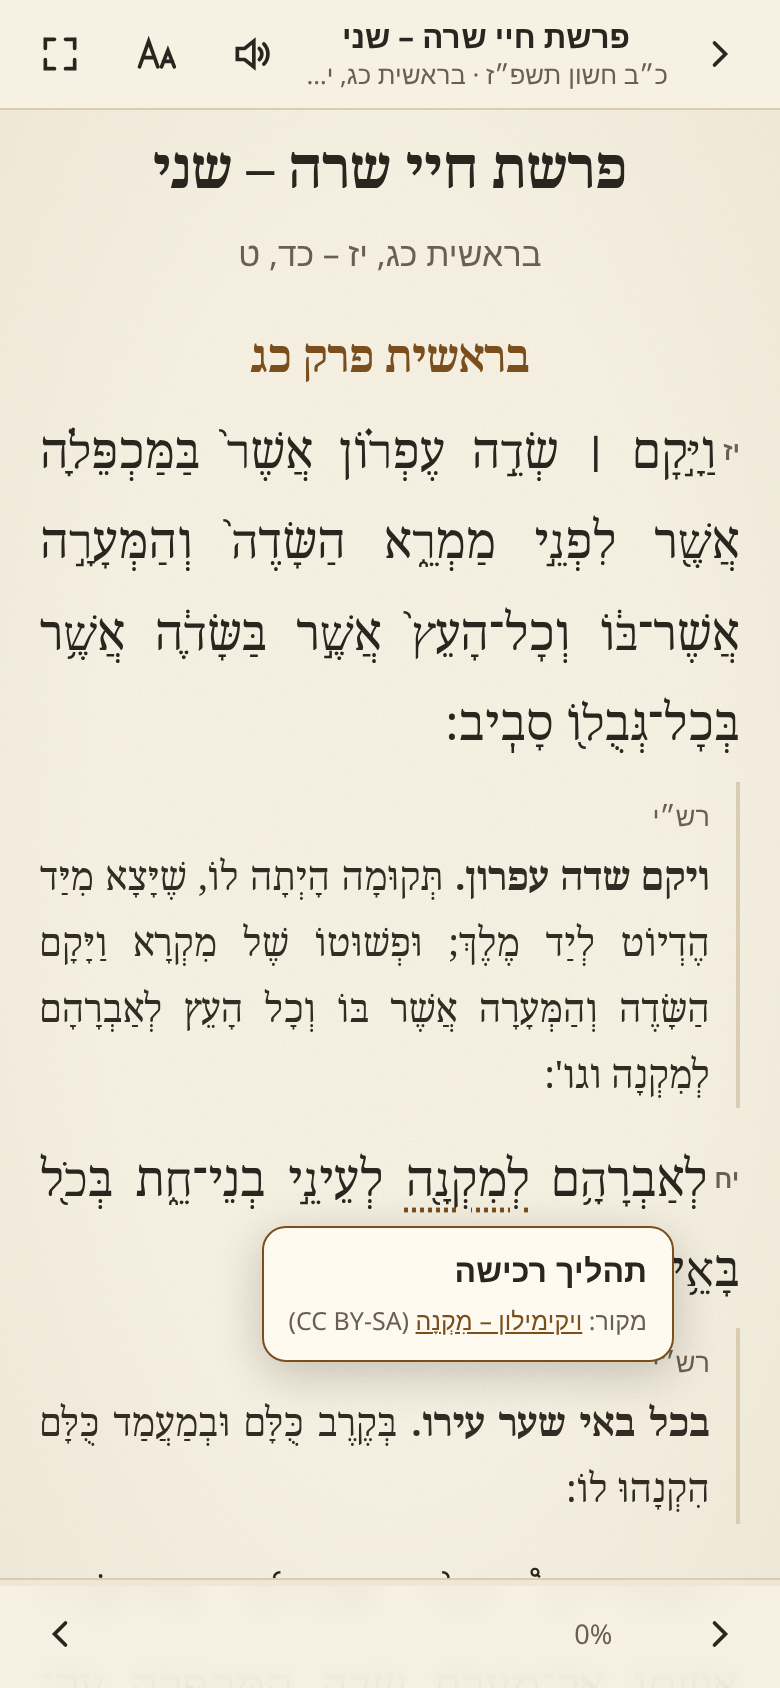
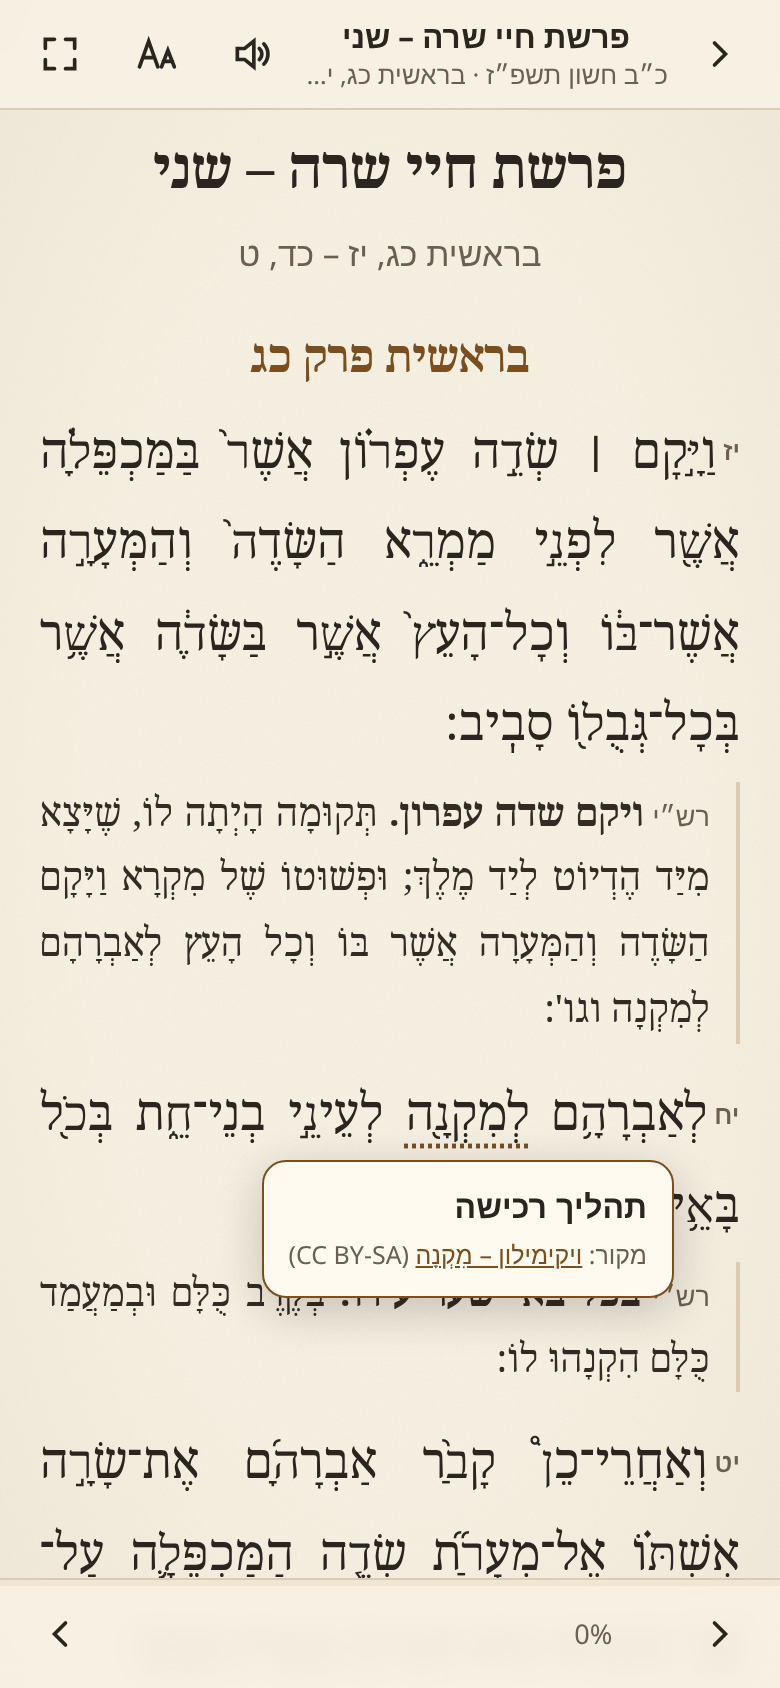
Critique round 1: compact date bar on mobile, Rashi label inline (better page fill)

diff --git a/site/css/app.css b/site/css/app.css
@@ -41,6 +41,8 @@ button, select, input { font: inherit; color: inherit; }
 .hero .hd { font-family: var(--text-font); font-size: 1.9rem; font-weight: 700; margin: 0; }
 .hero .sub { color: var(--muted); margin: .25rem 0 0; }
 .datebar { display: flex; align-items: center; justify-content: center; gap: .5rem; margin: .75rem 0 1rem; flex-wrap: wrap; }
+.datebar input[type="date"] { flex: 0 1 11rem; min-width: 0; }
+@media (max-width: 480px) { .datebar > .btn:not(.today) span { display: none; } .datebar > .btn:not(.today) { padding-inline: .7rem; } .datebar .today { flex-basis: 100%; justify-content: center; } }
 .btn { display: inline-flex; align-items: center; justify-content: center; gap: .4rem; min-height: 44px; min-width: 44px; padding: .4rem .9rem; border-radius: 12px; border: 1px solid var(--rule); background: var(--card); cursor: pointer; text-decoration: none; color: var(--ink); box-shadow: var(--shadow); }
 .btn:hover { border-color: var(--accent); }
 .btn.primary { background: var(--accent); color: var(--accent-ink); border-color: var(--accent); }
@@ -113,7 +115,7 @@ input[type="range"] { width: 100%; accent-color: var(--accent); min-height: 44px
 .r-content .seg.inline { display: inline; margin: 0; }
 .r-content .vn, .r-content .hn { font-family: var(--ui); font-size: .55em; color: var(--muted); font-weight: 600; margin-inline-end: .25em; vertical-align: .25em; }
 .r-content .rashi { font-size: .78em; line-height: 1.75; margin: .25em 0 .7em; padding-inline-start: .7em; border-inline-start: 2px solid var(--rule); color: color-mix(in srgb, var(--ink) 88%, var(--muted)); }
-.r-content .rashi p { margin: 0 0 .3em; }
+.r-content .rashi p { margin: 0 0 .3em; orphans: 1; widows: 1; }
 .r-content .rashi .lbl { font-family: var(--ui); font-size: .72em; color: var(--muted); }
 .r-content b { font-weight: 700; }
 .r-content .ketiv { color: var(--muted); font-size: .8em; }

diff --git a/site/js/app.js b/site/js/app.js
@@ -67,7 +67,7 @@ async function renderHome() {
       <label class="sr" for="datepick">תאריך</label>
       <input type="date" id="datepick" value="${currentDate}">
       <a class="btn" href="#/d/${shiftIso(currentDate, 1)}" aria-label="היום הבא"><span>הבא</span>${ICON.next}</a>
-      ${isToday ? '' : `<a class="btn" href="#/d/${todayIso()}">חזרה להיום</a>`}
+      ${isToday ? '' : `<a class="btn today" href="#/d/${todayIso()}">חזרה להיום</a>`}
     </nav>
     <section class="cards" aria-label="שיעורי היום">${unitsFor().map(u => `
       <article class="card" id="card-${u}">
@@ -313,7 +313,7 @@ async function renderDoc() {
       if (!open) { html += '<p>'; open = true; }
       html += `<span class="seg inline" data-id="${b.id}">${num}<span class="t">${fmt(b.text, true)}</span></span> `;
     } else {
-      const rashi = showRashi && b.sub?.length ? `<div class="rashi"><span class="lbl">רש״י </span>${b.sub.map(r => `<p>${fmt(r, false)}</p>`).join('')}</div>` : '';
+      const rashi = showRashi && b.sub?.length ? `<div class="rashi">${b.sub.map((r, i) => `<p>${i ? '' : '<span class="lbl">רש״י </span>'}${fmt(r, false)}</p>`).join('')}</div>` : '';
       html += `<div class="seg" data-id="${b.id}"><div class="t">${num}${fmt(b.text, !!d.tanakh)}</div>${rashi}</div>`;
     }
   }

diff --git a/site/sw.js b/site/sw.js
@@ -1,5 +1,5 @@
 // Service worker: app shell precache + cache-first for static text data.
-const VERSION = '1.0.1';
+const VERSION = '1.0.2';
 const SHELL = `shell-${VERSION}`;
 const DATA = 'data-v1';
 const ASSETS = ['./', 'index.html', 'css/app.css', 'js/app.js', 'js/calendar.js', 'js/texts.js', 'js/store.js', 'js/tts.js', 'js/tts-prep.js', 'js/gloss.js', 'js/hnorm.js', 'js/vendor/hebcal.js',
